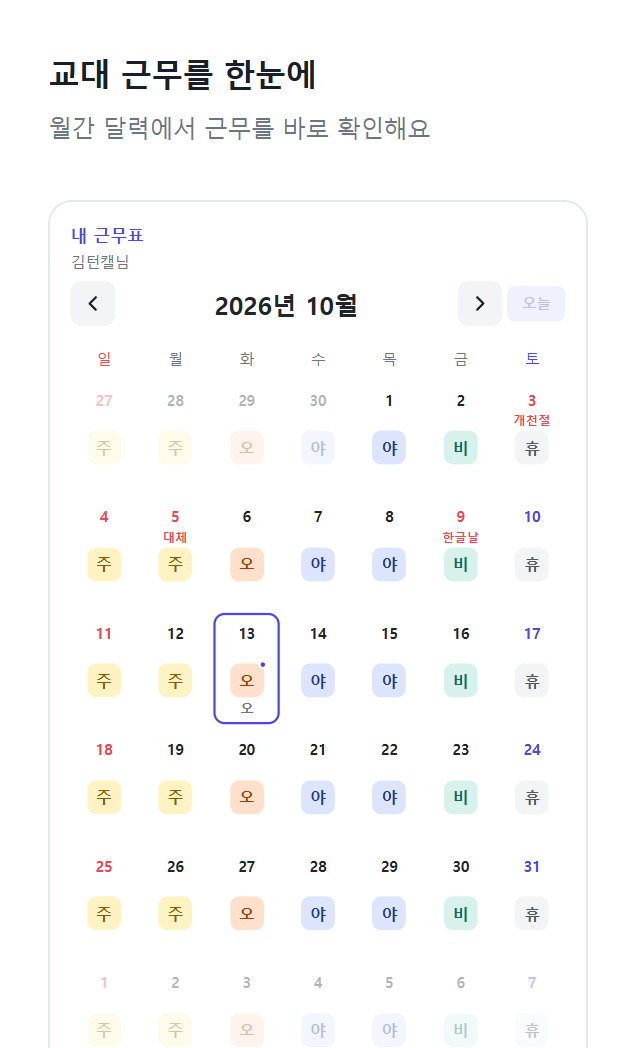
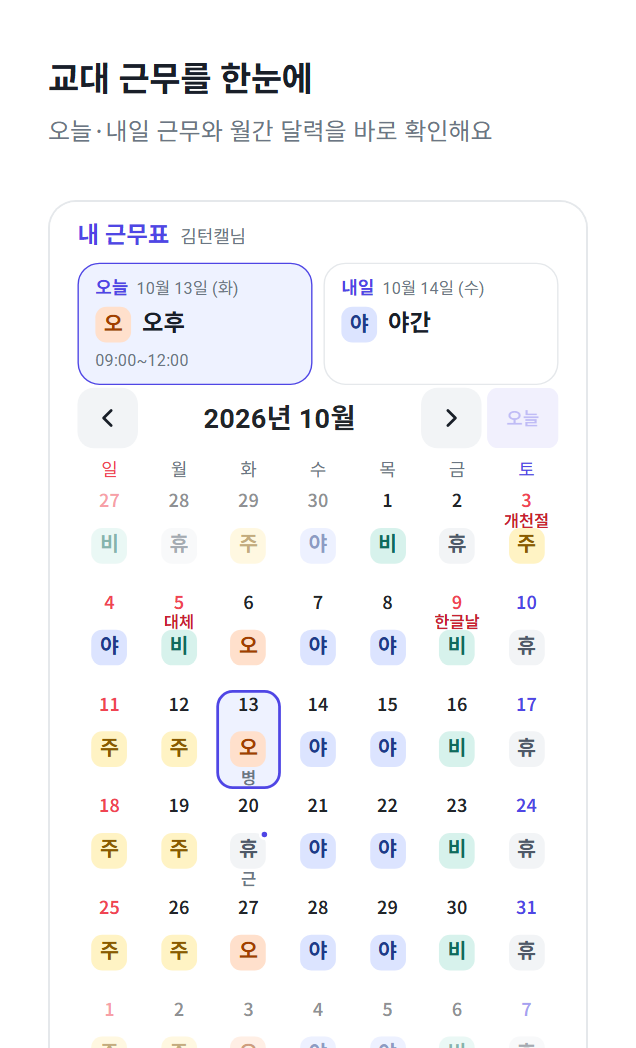
docs: v1.2 release prep (release bundle 20261019-23, release note, description draft) and store previews 1-8
- regenerate preview-1..5 from the current UI and add 6-8 for new features
- keep the capture/compose script in scripts/store/store-preview.mjs

diff --git a/docs/STORE_PREVIEW.md b/docs/STORE_PREVIEW.md
@@ -2,7 +2,13 @@
 
 콘솔 "미리보기 및 스크린샷" 항목에 올릴 이미지의 구성·규격·촬영 방법을 정한다.
 
-## 0. 현재 상태 (2026-10-13 밤)
+## 0. 현재 상태 (2026-10-19, v1.2 출시 준비)
+
+- **이미지 8장 완성**: `assets/store/preview-1.png` ~ `preview-8.png`(전부 636×1048 PNG, 38~111KB). 1~5번은 v1(10/13) 이미지를 **현재 화면(오늘·내일 카드, 6주 달력, 새 설정 화면)으로 다시 찍어 교체**했고, 6~8번은 v1.2 새 기능(근무 유형, 이번 달 내보내기, 패턴 이력 불러오기)이다. 이전 5장은 git 기록에 남아 있다.
+- 만드는 스크립트를 이번에는 **저장소에 남겼다**: `scripts/store/store-preview.mjs`(촬영 + 합성 한 번에, 실행법은 파일 머리 주석).
+- **콘솔 업로드는 사용자가 콘솔 웹에서 한다.** MCP `miniapp_update_screenshots`는 저장과 동시에 앱 정보 검토를 요청하므로 쓰지 않는다. 상세 설명도 새 기능을 포함하도록 함께 고쳐야 한다(초안은 `docs/NEXT_STEPS.md` "v1.2 출시 준비").
+
+### 이전 기록 (2026-10-13 밤)
 
 - **이미지 5장 완성**: `assets/store/preview-1.png` ~ `preview-5.png`(전부 636×1048 PNG, 33~73KB). 내용 확인 완료.
 - **콘솔 업로드는 아직 안 했다.** 콘솔 앱 등록 폼 2단계의 "미리보기 및 스크린샷"에 올릴 차례다(`find`로 `type="file"` 입력을 찾아 `file_upload`, 업로드 전 사용자 확인). 올린 뒤 "임시저장". 절차 메모는 `docs/NEXT_STEPS.md` 1-3.
@@ -37,16 +43,20 @@
 
 | # | 제목 | 보조 문구 | 보여 줄 화면 | 강조할 요소 |
 |---|---|---|---|---|
-| 1 | 교대 근무를 한눈에 | 월간 달력에서 근무를 바로 확인해요 | 달력 화면(2026년 10월) | 근무 유형별 색·약어(주·오·야·비·휴), 오늘 표시, 공휴일 이름 |
-| 2 | 순서만 정하면 자동 계산 | 반복 순서를 등록하고 오늘 위치만 골라요 | 근무 패턴 설정(근무 순서 + 오늘 위치) | 근무 순서 칩 목록, 오늘이 몇 번째인지 선택 |
-| 3 | 날짜별로 메모도 남겨요 | 근무 시간과 세부 내용을 따로 적어요 | 날짜 화면(10/13 세부 내용 편집) | 근무 시간 입력, 메모, 그날 근무로 적용 |
-| 4 | 주말·공휴일은 색과 이름으로 | 달력과 날짜 화면에 공휴일 이름이 보여요 | **위: 달력 첫 두 줄**(월 제목~개천절·대체·한글날) **+ 아래: 10/9 한글날 날짜 화면** | 개천절·대체·한글날 축약 이름, 날짜 화면의 빨간 공휴일 이름 |
-| 5 | 화면은 내 취향대로 | 색 테마와 주 시작 요일을 바꿔요 | **위: 화면 설정**(딥 틸 선택됨 + 주 시작 요일) **+ 아래: 딥 틸 테마가 적용된 달력** | 테마 선택, 선택 결과가 달력에 반영된 모습 |
+| 1 | 교대 근무를 한눈에 | 오늘·내일 근무와 월간 달력을 바로 확인해요 | 달력 화면(2026년 10월, 오늘·내일 카드 포함) | 근무 색·약어, 오늘 표시, 공휴일 이름, 오늘·내일 카드 |
+| 2 | 순서만 정하면 자동 계산 | 반복 순서를 등록하고 오늘 위치만 골라요 | 근무 패턴 설정(근무 순서 + 오늘 위치) | 근무 순서 칩, 오늘 위치 선택 |
+| 3 | 날짜별로 메모도 남겨요 | 근무 시간과 세부 내용을 따로 적어요 | 세부 내용 편집(10/13 "병동 교육" 09:00~12:00) | 이름·시작/종료 시간·내용 입력 |
+| 4 | 주말·공휴일은 색과 이름으로 | 달력과 날짜 화면에 공휴일 이름이 보여요 | 위: 달력 첫 두 주 + 아래: 10/9 한글날 날짜 화면 | 개천절·대체·한글날, 빨간 공휴일 이름 |
+| 5 | 화면은 내 취향대로 | 색 테마와 주 시작 요일을 바꿔요 | 위: 화면 설정(딥 틸 선택) + 아래: 딥 틸 달력 | 테마 선택과 적용 결과 |
+| 6 | 근무 이름을 직장에 맞게 | 이름·약어·색을 바꾸면 달력에 바로 보여요 | 위: 근무 유형 화면(오후 → 이브닝 "E" 분홍) + 아래: 바꾼 이름이 적용된 달력(D·E·N) | 이름·약어 입력, 색 견본, 달력 반영 |
+| 7 | 이번 달 근무표를 보내요 | 사진이나 캘린더 파일로 공유해요 | 위: 이번 달 내보내기 시트 + 아래: 실제로 만들어지는 달력 이미지 | 두 선택지와 결과물 |
+| 8 | 예전 근무 순서도 다시 | 패턴 이력을 누르면 편집기에 불러와요 | 위: 패턴 이력 목록(불러오기) + 아래: 불러온 근무 순서와 안내 | 이력의 "불러오기", 불러온 결과 |
 
 - 1번이 대표 이미지다(콘솔 목록에서 처음 보임). 가장 정보가 많고 앱 성격이 드러나는 달력 화면을 쓴다.
 - 4번을 "달력 확대"로 하지 않은 이유: 앱 레이아웃에 **최소 폭(약 300 CSS px)**이 있어 270px 뷰포트로는 7열이 잘리고, 390px 폭 기준에서는 확대 여지가 없어 1번과 중복된다. 그래서 달력 윗부분과 공휴일 날짜 화면을 세로로 쌓았다(두 조각 사이는 `#F2F4F6` 14px 구분띠).
 - 5번은 설정 화면만 두면 아래 20%가 빈 공간이 되므로, 선택한 테마가 적용된 달력을 아래에 붙였다.
-- 설명(상세 설명)에 없는 기능은 넣지 않는다. 위 5장은 모두 상세 설명 본문에 있는 기능이다.
+- 설명(상세 설명)에 없는 기능은 넣지 않는다. 1~5번은 현재 상세 설명에 있는 기능이고, **1번의 오늘·내일 카드와 6~8번은 상세 설명을 고친 뒤에만 올린다**(v1.2 상세 설명 초안 — NEXT_STEPS).
+- 6번 데이터는 간호 교대 호칭 예시(데이·이브닝·나이트, 약어 D·E·N)로 실제 사용 장면을 보여 준다.
 
 ## 4. 장면별 와이어프레임 (636 × 1048)
 
@@ -77,13 +87,14 @@
 5. 출력 파일은 `assets/store/preview-1.png` ~ `preview-5.png`(`assets/logo.png` 옆)에 둔다. 현재 이 5장이 들어 있다.
 6. 업로드 전에 5장 모두 정확히 636 × 1048인지 확인한다(파일 크기 5MB 이하).
 
-## 6. 검수 체크리스트 (2026-10-13 `assets/store/` 5장 확인 완료 — 업로드 직전에 다시 볼 것)
+## 6. 검수 체크리스트 (2026-10-19 `assets/store/` 8장 확인 완료 — 업로드 직전에 다시 볼 것)
 
-- [x] 5장 모두 636 × 1048, PNG, 5MB 이하
+- [x] 8장 모두 636 × 1048, PNG, 5MB 이하(최대 111KB)
 - [x] 세로형만 사용(가로형 혼용 없음)
 - [x] 토스 블루·`Toss Product Sans` 없음, 다크모드 화면 없음
 - [x] 광고 배너·"Ad" 표기 영역이 화면에 보이지 않음
-- [x] 이모지·과장·비교 문구 없음, 모든 문구가 상세 설명과 일치
+- [x] 이모지·과장·비교 문구 없음
+- [ ] 모든 문구가 상세 설명과 일치 — **상세 설명을 v1.2 초안으로 고친 뒤 충족**
 - [x] 가상 데이터만 사용(실제 이름·연락처 없음)
 - [x] 2026년 10월 데이터의 공휴일 이름·대체공휴일이 `src/domain/holidays.ts`와 일치
 - [x] 글자 11px(실제) 미만 없음

diff --git a/docs/NEXT_STEPS.md b/docs/NEXT_STEPS.md
@@ -14,6 +14,29 @@
 | DAU | 10-13 2명, 10-14 1명, 10-15 2명(모두 Android). 10-16 이후는 2026-10-19 조회 시점에 아직 집계 없음 |
 | 기능 브랜치 | 모두 `main`에 병합됨. 사용자 요청(2026-10-19)으로 **삭제하지 않고 남겨 둔다** |
 
+### v1.2 출시 준비 (2026-10-19) — 검토 신청 전
+v1.2 = `load-history-pattern-into-editor` + `customize-shift-labels` + `add-month-export`(모두 `main` 병합·아카이브, 각각 실기기 확인 완료). 라이브는 여전히 `20261015-18`.
+
+| 항목 | 상태 |
+|---|---|
+| 출시용 번들 | **`20261019-23`** (실제 광고 ID, 커밋 `93c161f`, deploymentId `01a152f6-054d-785b-8fa7-08e7b7e1e35f`) 업로드·`CREATED`·테스트 푸시 완료. 번들에 실제 ID만 있고 테스트 ID·저장 위치 확인용 코드(`turncal-probe`) 없음 확인 |
+| 출시 노트 | 입력 완료(`bundle_set_release_note`, 검토 신청 전까지 수정 가능): ① 이번 달 근무표를 사진이나 캘린더 파일로 보낼 수 있어요. ② 근무 유형의 이름·약어·색을 직장에서 쓰는 이름에 맞게 바꿀 수 있어요. ③ 패턴 이력에서 예전 근무 순서를 눌러 다시 불러올 수 있어요. 근무 패턴을 초기화한 뒤에도 불러올 수 있어요. |
+| 가이드 대조 | 2026-10-19 원문 기준 세 change 모두 통과(아래 각 대조표). **확인 필요는 v1 이월 3건뿐**: 내비 바 로고, 더보기(⋯) 메뉴, 메모리·네트워크. 규칙상 이 항목이 남은 채로 Claude가 먼저 검토를 신청하지 않는다(신청은 사용자 결정) |
+| 실기기(출시 번들) | **남음**: `20261019-23`에서 실제 광고 노출(달력 하단 배너), 세 기능 동작, 가능하면 v1 이월 3건 |
+| 미리보기 이미지 | `assets/store/preview-1~8.png` 준비 완료(`docs/STORE_PREVIEW.md`). 1~5 교체, 6~8 추가 |
+| 상세 설명 | 새 기능이 빠져 있어 수정 필요(아래 초안). 이미지 1번(오늘·내일 카드)과 6~8번은 설명을 고친 뒤 올린다 |
+
+**상세 설명 초안(콘솔 앱 정보 → 상세 설명, 사용자 입력):**
+> 주간·오후·야간·당직·비번·휴무를 반복 순서대로 등록하고 오늘이 몇 번째 근무인지 고르면, 월간 달력에서 지난 근무와 앞으로의 근무를 자동으로 보여 줘요. 달력 위에서 오늘과 내일 근무를 바로 확인하고, 이전·다음 달로 넘기며 근무를 볼 수 있어요. 근무 패턴을 바꿔도 이전 기록이 남아 지난 날짜는 그때의 패턴대로 보이고, 예전 근무 순서를 다시 불러올 수 있어요. 근무 유형의 이름·약어·색은 직장에서 쓰는 이름에 맞게 바꿀 수 있어요. 날짜를 누르면 그날의 근무 시간과 메모를 따로 적을 수 있고, 이번 달 근무표를 사진이나 캘린더 파일로 보낼 수 있어요. 주말과 공휴일은 달력에 색과 이름으로 표시돼요. 설정에서 근무표 이름과 내 이름, 주 시작 요일과 색 테마를 바꾸고, 초기화에서 모든 데이터를 지울 수 있어요. 모든 데이터는 이 기기에만 저장돼요.
+
+(현재 등록된 설명보다 길다. 콘솔 입력칸의 글자 수 제한에 걸리면 줄인다. 한 줄 소개 "근무 패턴 자동 계산"은 그대로 둬도 된다.)
+
+**콘솔 웹에서 할 일(사용자, 순서대로):**
+1. 폰에서 출시 번들 `20261019-23` 확인(실제 광고 노출 포함). 테스트 링크는 콘솔 "앱 출시" 화면의 이 버전 또는 `intoss-private://ait-turncal?_deploymentId=01a152f6-054d-785b-8fa7-08e7b7e1e35f&host=appsInTossHost`.
+2. 앱 정보 수정: 상세 설명을 위 초안으로 바꾸고, "미리보기 및 스크린샷"을 `assets/store/preview-1~8.png`(세로형 8장, 이 순서)로 교체 → 앱 정보 검토 요청. MCP `miniapp_update_*`는 쓰지 않는다(저장과 동시에 검토 요청).
+3. 번들 검토 요청은 **사용자가 요청할 때만**(Claude가 `bundle_submit_review` 또는 콘솔 웹에서). 승인 뒤 콘솔 웹 "출시하기"로 라이브 전환(MCP 불가). 롤백 대상은 `20261015-18`.
+4. 롤백 시 주의: 이전 번들에서 설정을 저장하면 근무 유형 사용자 정의(`shiftLabels`)가 사라진다(데이터 손상은 아님).
+
 ### 할 일 (우선순위 순)
 1. **광고 노출 유지(기한 있음)** — 23일 연속 무노출이면 삭제예정, 30일이면 삭제. 마지막 노출이 10-15라 노출이 이어지지 않으면 **2026-11-07경 삭제예정**이 된다. 며칠 간격으로 `iaa_placement_group_get`(includeReport=true, 기간 지정)·`dashboard_dau`로 본다.
 2. **v1 이월 폰 확인(코드 변경 없음)** — 내비 바 **로고**(이름은 확인됨), 더보기(⋯)·고객센터 메뉴, 메모리·네트워크 사용. 사용자만 할 수 있다.
